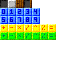
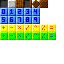
Spaghetti 1

Changed region(s): [[0.5, 0.0, 0.75, 0.125]]

diff --git a/index.js b/index.js
@@ -8,124 +8,92 @@ import { join } from 'node:path';
 import { parse } from 'node:url';
 import { WebSocketServer } from 'ws';
 import mime from 'mime/lite.js';
+import { captureRejectionSymbol } from 'node:events';
 
 const TILES = [
-	{ // Floor
+	{ // floor
 		solid: false,
 		movable: false
 	},
-	{ // Wall
+	{ // Wall; 1
 		solid: true,
 		movable: false
 	},
-	{ // Door
+	{ // Door; 2
 		solid: true,
 		movable: false
 	},
-	{ // 0
+	{ // Crate (Locked)
+		solid: true,
+		movable: false
+	},
+	{ // Crate (Unlocked)
 		solid: true,
 		movable: true
-	},
-	{ // 1
-		solid: true,
-		movable: true
-	},
-	{ // 2
-		solid: true,
-		movable: true
-	},
-	{ // 3
-		solid: true,
-		movable: true
-	},
-	{ // 4
-		solid: true,
-		movable: true
-	},
-	{ // 5
-		solid: true,
-		movable: true
-	},
-	{ // 6
-		solid: true,
-		movable: true
-	},
-	{ // 7
-		solid: true,
-		movable: true
-	},
-	{ // 8
-		solid: true,
-		movable: true
-	},
-	{ // 9
-		solid: true,
-		movable: true
-	},
-	{ // +
-		solid: true,
-		movable: true	
-	},
-	{ // -
-		solid: true,
-		movable: true	
-	},
-	{ // *
-		solid: true,
-		movable: true	
-	},
-	{ // /
-		solid: true,
-		movable: true	
-	},
-	{ // ^
-		solid: true,
-		movable: true	
-	},
-	{ // %
-		solid: true,
-		movable: true	
-	},
-	{ // =
-		solid: true,
-		movable: true	
 	}
 ];
 
-const world = [ // testing world
-	[1, 1, 1, 1, 1, 1, 1, 1, 0, 0, 0, 1, 1, 1, 1, 1, 1, 1, 1],
-	[1, 0, 0, 0, 0, 0, 0, 0, 0, 0, 0, 0, 0, 0, 0, 0, 0, 0, 1],
-	[1, 0, 0, 0, 0, 0, 0, 0, 0, 0, 0, 0,17, 0, 9, 0, 1, 0, 1],
-	[1, 0, 0, 0, 0, 0, 0, 0, 0, 0, 0, 0, 0, 0, 0, 0, 0, 0, 1],
-	[1, 0, 0, 0, 0, 0, 0, 0, 0, 0, 0, 0,18, 0,10, 0, 2, 0, 1],
-	[1, 0, 0, 0, 0, 0, 0, 0, 0, 0, 0, 0, 0, 0, 0, 0, 0, 0, 1],
-	[1, 0, 0, 0, 0, 0, 0, 0, 0, 0, 0, 0,19, 0,11, 0, 3, 0, 1],
-	[1, 0, 0, 0, 0, 0, 0, 0, 0, 0, 0, 0, 0, 0, 0, 0, 0, 0, 1],
-	[0, 0, 0, 0, 0, 0, 0, 0, 0, 0, 0, 0, 0, 0,12, 0, 4, 0, 0],
-	[0, 0, 0, 0, 0, 0, 0, 0, 0, 0, 0, 0, 0, 0, 0, 0, 0, 0, 0],
-	[0, 0, 0, 0, 0, 0, 0, 0, 0, 0, 0, 0, 0, 0,13, 0, 5, 0, 0],
-	[1, 0, 0, 0, 0, 0, 0, 0, 0, 0, 0, 0, 0, 0, 0, 0, 0, 0, 1],
-	[1, 0, 0, 0, 0, 0, 0, 0, 0, 0, 0, 0, 0, 0,14, 0, 6, 0, 1],
-	[1, 0, 0, 0, 0, 0, 0, 0, 0, 0, 0, 0, 0, 0, 0, 0, 0, 0, 1],
-	[1, 0, 0, 0, 0, 0, 0, 0, 0, 0, 0, 0, 0, 0,15, 0, 7, 0, 1],
-	[1, 0, 0, 0, 0, 0, 0, 0, 0, 0, 0, 0, 0, 0, 0, 0, 0, 0, 1],
-	[1, 0, 0, 0, 0, 0, 0, 0, 0, 0, 0, 0, 0, 0,16, 0, 8, 0, 1],
-	[1, 0, 0, 0, 0, 0, 0, 0, 0, 0, 0, 0, 0, 0, 0, 0, 0, 0, 1],
-	[1, 1, 1, 1, 1, 1, 1, 1, 0, 0, 0, 1, 1, 1, 1, 1, 1, 1, 1]
+const world = [
+	[1,1,1,1,1,1,1,1,1,1,1,1,1,1,1,1,1,1,0,0,0,0,0,0,0,0,0,0,0,0,0,0,0,0,0,0,0,0,0,0,0,0,0,0,0,0,0,0,0,0,0,0,0,0,0,0,0,0,0,0,0,0,0,0,0,0,0,0,0,0,0,0,0,0,0,0,0],
+	[1,0,0,0,1,0,0,0,0,0,0,0,0,0,0,0,0,0,0,0,0,0,0,0,0,0,0,0,0,0,0,0,0,0,0,0,0,0,0,0,0,0,0,0,0,0,0,0,0,0,0,0,0,0,0,0,0,0,0,0,0,0,0,0,0,0,0,0,0,0,0,0,0,0,0,0,0],
+	[1,0,0,0,1,0,1,1,1,1,1,1,1,1,1,1,1,1,0,0,0,0,0,0,0,0,0,0,0,0,0,0,0,0,0,0,0,0,0,0,0,0,0,0,0,0,0,0,0,0,0,0,0,0,0,0,0,0,0,0,0,0,0,0,0,0,0,0,0,0,0,0,0,0,0,0,0],
+	[1,0,0,0,4,0,0,1,0,0,0,0,0,0,0,0,0,0,0,0,0,0,0,0,0,0,0,0,0,0,0,0,0,0,0,0,0,0,0,0,0,0,0,0,0,0,0,0,0,0,0,0,0,0,0,0,0,0,0,0,0,0,0,0,0,0,0,0,0,0,0,0,0,0,0,0,0],
+	[1,1,1,1,1,1,1,1,0,0,0,0,0,0,0,0,0,0,0,0,0,0,0,0,0,0,0,0,0,0,0,0,0,0,0,0,0,0,0,0,0,0,0,0,0,0,0,0,0,0,0,0,0,0,0,0,0,0,0,0,0,0,0,0,0,0,0,0,0,0,0,0,0,0,0,0,0],
+	[0,0,0,0,0,0,0,0,0,0,0,0,0,0,0,0,0,0,0,0,0,0,0,0,0,0,0,0,0,0,0,0,0,0,0,0,0,0,0,0,0,0,0,0,0,0,0,0,0,0,0,0,0,0,0,0,0,0,0,0,0,0,0,0,0,0,0,0,0,0,0,0,0,0,0,0,0],
+	[0,0,0,0,0,0,0,0,0,0,0,0,0,0,0,0,0,0,0,0,0,0,0,0,0,0,0,0,0,0,0,0,0,0,0,0,0,0,0,0,0,0,0,0,0,0,0,0,0,0,0,0,0,0,0,0,0,0,0,0,0,0,0,0,0,0,0,0,0,0,0,0,0,0,0,0,0],
+	[0,0,0,0,0,0,0,0,0,0,0,0,0,0,0,0,0,0,0,0,0,0,0,0,0,0,0,0,0,0,0,0,0,0,0,0,0,0,0,0,0,0,0,0,0,0,0,0,0,0,0,0,0,0,0,0,0,0,0,0,0,0,0,0,0,0,0,0,0,0,0,0,0,0,0,0,0],[0,0,0,0,0,0,0,0,0,0,0,0,0,0,0,0,0,0,0,0,0,0,0,0,0,0,0,0,0,0,0,0,0,0,0,0,0,0,0,0,0,0,0,0,0,0,0,0,0,0,0,0,0,0,0,0,0,0,0,0,0,0,0,0,0,0,0,0,0,0,0,0,0,0,0,0,0],
+	[0,0,0,0,0,0,0,0,0,0,0,0,0,0,0,0,0,0,0,0,0,0,0,0,0,0,0,0,0,0,0,0,0,0,0,0,0,0,0,0,0,0,0,0,0,0,0,0,0,0,0,0,0,0,0,0,0,0,0,0,0,0,0,0,0,0,0,0,0,0,0,0,0,0,0,0,0],
+	[0,0,0,0,0,0,0,0,0,0,0,0,0,0,0,0,0,0,0,0,0,0,0,0,0,0,0,0,0,0,0,0,0,0,0,0,0,0,0,0,0,0,0,0,0,0,0,0,0,0,0,0,0,0,0,0,0,0,0,0,0,0,0,0,0,0,0,0,0,0,0,0,0,0,0,0,0],
+	[0,0,0,0,0,0,0,0,0,0,0,0,0,0,0,0,0,0,0,0,0,0,0,0,0,0,0,0,0,0,0,0,0,0,0,0,0,0,0,0,0,0,0,0,0,0,0,0,0,0,0,0,0,0,0,0,0,0,0,0,0,0,0,0,0,0,0,0,0,0,0,0,0,0,0,0,0],
+	[0,0,0,0,0,0,0,0,0,0,0,0,0,0,0,0,0,0,0,0,0,0,0,0,0,0,0,0,0,0,0,0,0,0,0,0,0,0,0,0,0,0,0,0,0,0,0,0,0,0,0,0,0,0,0,0,0,0,0,0,0,0,0,0,0,0,0,0,0,0,0,0,0,0,0,0,0],
+	[0,0,0,0,0,0,0,0,0,0,0,0,0,0,0,0,0,0,0,0,0,0,0,0,0,0,0,0,0,0,0,0,0,0,0,0,0,0,0,0,0,0,0,0,0,0,0,0,0,0,0,0,0,0,0,0,0,0,0,0,0,0,0,0,0,0,0,0,0,0,0,0,0,0,0,0,0],
+	[0,0,0,0,0,0,0,0,0,0,0,0,0,0,0,0,0,0,0,0,0,0,0,0,0,0,0,0,0,0,0,0,0,0,0,0,0,0,0,0,0,0,0,0,0,0,0,0,0,0,0,0,0,0,0,0,0,0,0,0,0,0,0,0,0,0,0,0,0,0,0,0,0,0,0,0,0],
+	[0,0,0,0,0,0,0,0,0,0,0,0,0,0,0,0,0,0,0,0,0,0,0,0,0,0,0,0,0,0,0,0,0,0,0,0,0,0,0,0,0,0,0,0,0,0,0,0,0,0,0,0,0,0,0,0,0,0,0,0,0,0,0,0,0,0,0,0,0,0,0,0,0,0,0,0,0],
+	[0,0,0,0,0,0,0,0,0,0,0,0,0,0,0,0,0,0,0,0,0,0,0,0,0,0,0,0,0,0,0,0,0,0,0,0,0,0,0,0,0,0,0,0,0,0,0,0,0,0,0,0,0,0,0,0,0,0,0,0,0,0,0,0,0,0,0,0,0,0,0,0,0,0,0,0,0],
+	[0,0,0,0,0,0,0,0,0,0,0,0,0,0,0,0,0,0,0,0,0,0,0,0,0,0,0,0,0,0,0,0,0,0,0,0,0,0,0,0,0,0,0,0,0,0,0,0,0,0,0,0,0,0,0,0,0,0,0,0,0,0,0,0,0,0,0,0,0,0,0,0,0,0,0,0,0],
+	[0,0,0,0,0,0,0,0,0,0,0,0,0,0,0,0,0,0,0,0,0,0,0,0,0,0,0,0,0,0,0,0,0,0,0,0,0,0,0,0,0,0,0,0,0,0,0,0,0,0,0,0,0,0,0,0,0,0,0,0,0,0,0,0,0,0,0,0,0,0,0,0,0,0,0,0,0],
+	[0,0,0,0,0,0,0,0,0,0,0,0,0,0,0,0,0,0,0,0,0,0,0,0,0,0,0,0,0,0,0,0,0,0,0,0,0,0,0,0,0,0,0,0,0,0,0,0,0,0,0,0,0,0,0,0,0,0,0,0,0,0,0,0,0,0,0,0,0,0,0,0,0,0,0,0,0],
+	[0,0,0,0,0,0,0,0,0,0,0,0,0,0,0,0,0,0,0,0,0,0,0,0,0,0,0,0,0,0,0,0,0,0,0,0,0,0,0,0,0,0,0,0,0,0,0,0,0,0,0,0,0,0,0,0,0,0,0,0,0,0,0,0,0,0,0,0,0,0,0,0,0,0,0,0,0],
+	[0,0,0,0,0,0,0,0,0,0,0,0,0,0,0,0,0,0,0,0,0,0,0,0,0,0,0,0,0,0,0,0,0,0,0,0,0,0,0,0,0,0,0,0,0,0,0,0,0,0,0,0,0,0,0,0,0,0,0,0,0,0,0,0,0,0,0,0,0,0,0,0,0,0,0,0,0],
+	[0,0,0,0,0,0,0,0,0,0,0,0,0,0,0,0,0,0,0,0,0,0,0,0,0,0,0,0,0,0,0,0,0,0,0,0,0,0,0,0,0,0,0,0,0,0,0,0,0,0,0,0,0,0,0,0,0,0,0,0,0,0,0,0,0,0,0,0,0,0,0,0,0,0,0,0,0],
+	[0,0,0,0,0,0,0,0,0,0,0,0,0,0,0,0,0,0,0,0,0,0,0,0,0,0,0,0,0,0,0,0,0,0,0,0,0,0,0,0,0,0,0,0,0,0,0,0,0,0,0,0,0,0,0,0,0,0,0,0,0,0,0,0,0,0,0,0,0,0,0,0,0,0,0,0,0],
+	[0,0,0,0,0,0,0,0,0,0,0,0,0,0,0,0,0,0,0,0,0,0,0,0,0,0,0,0,0,0,0,0,0,0,0,0,0,0,0,0,0,0,0,0,0,0,0,0,0,0,0,0,0,0,0,0,0,0,0,0,0,0,0,0,0,0,0,0,0,0,0,0,0,0,0,0,0],
+	[0,0,0,0,0,0,0,0,0,0,0,0,0,0,0,0,0,0,0,0,0,0,0,0,0,0,0,0,0,0,0,0,0,0,0,0,0,0,0,0,0,0,0,0,0,0,0,0,0,0,0,0,0,0,0,0,0,0,0,0,0,0,0,0,0,0,0,0,0,0,0,0,0,0,0,0,0],
+	[0,0,0,0,0,0,0,0,0,0,0,0,0,0,0,0,0,0,0,0,0,0,0,0,0,0,0,0,0,0,0,0,0,0,0,0,0,0,0,0,0,0,0,0,0,0,0,0,0,0,0,0,0,0,0,0,0,0,0,0,0,0,0,0,0,0,0,0,0,0,0,0,0,0,0,0,0],
+	[0,0,0,0,0,0,0,0,0,0,0,0,0,0,0,0,0,0,0,0,0,0,0,0,0,0,0,0,0,0,0,0,0,0,0,0,0,0,0,0,0,0,0,0,0,0,0,0,0,0,0,0,0,0,0,0,0,0,0,0,0,0,0,0,0,0,0,0,0,0,0,0,0,0,0,0,0],
+	[0,0,0,0,0,0,0,0,0,0,0,0,0,0,0,0,0,0,0,0,0,0,0,0,0,0,0,0,0,0,0,0,0,0,0,0,0,0,0,0,0,0,0,0,0,0,0,0,0,0,0,0,0,0,0,0,0,0,0,0,0,0,0,0,0,0,0,0,0,0,0,0,0,0,0,0,0],
+	[0,0,0,0,0,0,0,0,0,0,0,0,0,0,0,0,0,0,0,0,0,0,0,0,0,0,0,0,0,0,0,0,0,0,0,0,0,0,0,0,0,0,0,0,0,0,0,0,0,0,0,0,0,0,0,0,0,0,0,0,0,0,0,0,0,0,0,0,0,0,0,0,0,0,0,0,0],
+	[0,0,0,0,0,0,0,0,0,0,0,0,0,0,0,0,0,0,0,0,0,0,0,0,0,0,0,0,0,0,0,0,0,0,0,0,0,0,0,0,0,0,0,0,0,0,0,0,0,0,0,0,0,0,0,0,0,0,0,0,0,0,0,0,0,0,0,0,0,0,0,0,0,0,0,0,0],
+	[0,0,0,0,0,0,0,0,0,0,0,0,0,0,0,0,0,0,0,0,0,0,0,0,0,0,0,0,0,0,0,0,0,0,0,0,0,0,0,0,0,0,0,0,0,0,0,0,0,0,0,0,0,0,0,0,0,0,0,0,0,0,0,0,0,0,0,0,0,0,0,0,0,0,0,0,0],
+	[0,0,0,0,0,0,0,0,0,0,0,0,0,0,0,0,0,0,0,0,0,0,0,0,0,0,0,0,0,0,0,0,0,0,0,0,0,0,0,0,0,0,0,0,0,0,0,0,0,0,0,0,0,0,0,0,0,0,0,0,0,0,0,0,0,0,0,0,0,0,0,0,0,0,0,0,0],
+	[0,0,0,0,0,0,0,0,0,0,0,0,0,0,0,0,0,0,0,0,0,0,0,0,0,0,0,0,0,0,0,0,0,0,0,0,0,0,0,0,0,0,0,0,0,0,0,0,0,0,0,0,0,0,0,0,0,0,0,0,0,0,0,0,0,0,0,0,0,0,0,0,0,0,0,0,0],
+	[0,0,0,0,0,0,0,0,0,0,0,0,0,0,0,0,0,0,0,0,0,0,0,0,0,0,0,0,0,0,0,0,0,0,0,0,0,0,0,0,0,0,0,0,0,0,0,0,0,0,0,0,0,0,0,0,0,0,0,0,0,0,0,0,0,0,0,0,0,0,0,0,0,0,0,0,0],
+	[0,0,0,0,0,0,0,0,0,0,0,0,0,0,0,0,0,0,0,0,0,0,0,0,0,0,0,0,0,0,0,0,0,0,0,0,0,0,0,0,0,0,0,0,0,0,0,0,0,0,0,0,0,0,0,0,0,0,0,0,0,0,0,0,0,0,0,0,0,0,0,0,0,0,0,0,0]
 ];
 
 const WORLD_SIZE_X = world.length;
 const WORLD_SIZE_Y = world[0].length;
-const SPAWN_X = 1;
-const SPAWN_Y = 1;
+const SPAWN_X = 2;
+const SPAWN_Y = 2;
+const PLAYER_VIEW_RADIUS_X = 9;
+const PLAYER_VIEW_RADIUS_Y = 9;
 
 const players = new Map();
 const updateAllPlayers = () => {
-	for (const { socket } of [...players.values()])
+	for (const { socket, position } of [...players.values()]) {
+		const viewedWorld = [];
+		for (let x = (position.x - PLAYER_VIEW_RADIUS_X); x <= (position.x + PLAYER_VIEW_RADIUS_X); ++x) {
+			const aaa = [];
+			for (let y = (position.y - PLAYER_VIEW_RADIUS_Y); y <= (position.y + PLAYER_VIEW_RADIUS_Y); ++y)
+				aaa.push(world[(x + WORLD_SIZE_X) % WORLD_SIZE_X][(y + WORLD_SIZE_Y) % WORLD_SIZE_Y]);
+			viewedWorld.push(aaa);
+		}
 		socket.send(JSON.stringify({
-			world,
+			viewedWorld,
+			playerCoords: position,
 			players: [...players.values()].map(({ color, direction, position, pulling }) => ({ color, direction, position, pulling }))
 		}));
+	}
 };
 new WebSocketServer({
 	server: createServer((request, response) => {
@@ -208,6 +176,62 @@ new WebSocketServer({
 								x: 0,
 								y: 0
 							};
+
+							/*
+						// maths below 
+						try {
+							const tokens = [];
+							for (let y = 0; y < WORLD_SIZE_Y; ++y)
+								for (let x = 0; x < WORLD_SIZE_X; ++x)
+									if (world[x][y] > 2) {
+										if (!tokens.length) {
+											tokens.push({
+												operator: '+',
+												value: +world[x][y]
+											});
+									}
+										else {
+											if (world[x][y] > 12)
+												tokens.push({
+													operator: '+-*^%'[world[x][y] - 13],
+													value: 0
+												});
+											else
+												tokens[tokens.length - 1].value = tokens[tokens.length - 1].value * 10 + world[x][y];
+										}
+									}
+							for (const operations of ['^', '*%', '+-'])
+								for (let i = 0; i < tokens.length; ++i) {
+									const current = tokens[i];
+									if (operations.includes(current)) {
+										things.erase(i);
+										const previous = tokens[--i];
+										switch (current) {
+											case '+':
+												previous.value += current.value;
+												break;
+											case '-':
+												previous.value -= current.value;
+												break;
+											case '*':
+												previous.value *= current.value;
+												break;
+											case '/':
+												previous.value /= current.value;
+												break;
+											case '^':
+												previous.value **= current.value;
+												break;
+											case '%':
+												previous.value = previous.value % current.value;
+												break;
+										}
+								}}
+								console.log(tokens[0].value);
+						} catch {}
+						// maths above
+						*/
+
 						updateAllPlayers();
 					}
 					break;

diff --git a/public/test.html b/public/test.html
@@ -39,6 +39,18 @@
 					w: 8,
 					h: 8
 				},
+				{ // locked crate
+					x: 32,
+					y: 0,
+					w: 8,
+					h: 8
+				},
+				{ // unlocked ^
+					x: 40,
+					y: 0,
+					w: 8,
+					h: 8
+				},
 				{ // 0
 					x: 0,
 					y: 8,
@@ -149,19 +161,23 @@
 			socket.addEventListener('open', () => console.log('connected'));
 			socket.addEventListener('close', () => console.log('disconnected'));
 			socket.addEventListener('message', ({ data }) => {
-				const { world, players } = JSON.parse(data);
-
-				const WORLD_SIZE_X = world.length; // TEMPORARY
-				const WORLD_SIZE_Y = world[0].length;
+				const { viewedWorld, playerCoords, players } = JSON.parse(data);
+				console.log(viewedWorld);
+				const WORLD_SIZE_X = viewedWorld.length; // TEMPORARY
+				const WORLD_SIZE_Y = viewedWorld[0].length;
 				const TILE_SIZE_X = canvas.width / WORLD_SIZE_X;
 				const TILE_SIZE_Y = canvas.height / WORLD_SIZE_Y;
+				
 				for (let x = 0; x < WORLD_SIZE_X; ++x) // ALSO TEMPORARY
 					for (let y = 0; y < WORLD_SIZE_Y; ++y) {
 						// pen.fillStyle = TILE_COLORS[world[x][y]];
 						// pen.fillRect(x * TILE_SIZE_X, canvas.height - y * TILE_SIZE_Y, TILE_SIZE_X + 1, -TILE_SIZE_Y - 1);
-						pen.drawImage(TILES_IMAGE, TILES_MAP[world[x][y]].x, TILES_MAP[world[x][y]].y, TILES_MAP[world[x][y]].w, TILES_MAP[world[x][y]].h, x * TILE_SIZE_X, canvas.height - y * TILE_SIZE_Y, TILE_SIZE_X + 1, -TILE_SIZE_Y - 1);
+						pen.drawImage(TILES_IMAGE, TILES_MAP[viewedWorld[x][y]].x, TILES_MAP[viewedWorld[x][y]].y, TILES_MAP[viewedWorld[x][y]].w, TILES_MAP[viewedWorld[x][y]].h, x * TILE_SIZE_X, canvas.height - y * TILE_SIZE_Y, TILE_SIZE_X + 1, -TILE_SIZE_Y - 1);
 					}
 				for (const { color, direction, position, pulling } of players) { // AND THIS TOO
+					position.x = playerCoords.x - position.x + Math.floor(WORLD_SIZE_X / 2);
+					position.y = playerCoords.y - position.y + Math.floor(WORLD_SIZE_Y / 2);
+
 					pen.fillStyle = color;
 					// direction
 					pen.fillRect((position.x + direction.x + WORLD_SIZE_X) % WORLD_SIZE_X * TILE_SIZE_X + TILE_SIZE_X / 3, canvas.height - (position.y + direction.y + WORLD_SIZE_Y) % WORLD_SIZE_Y * TILE_SIZE_Y - TILE_SIZE_Y / 3, TILE_SIZE_X - TILE_SIZE_X / 3 * 2, -TILE_SIZE_Y + TILE_SIZE_Y / 3 * 2);
